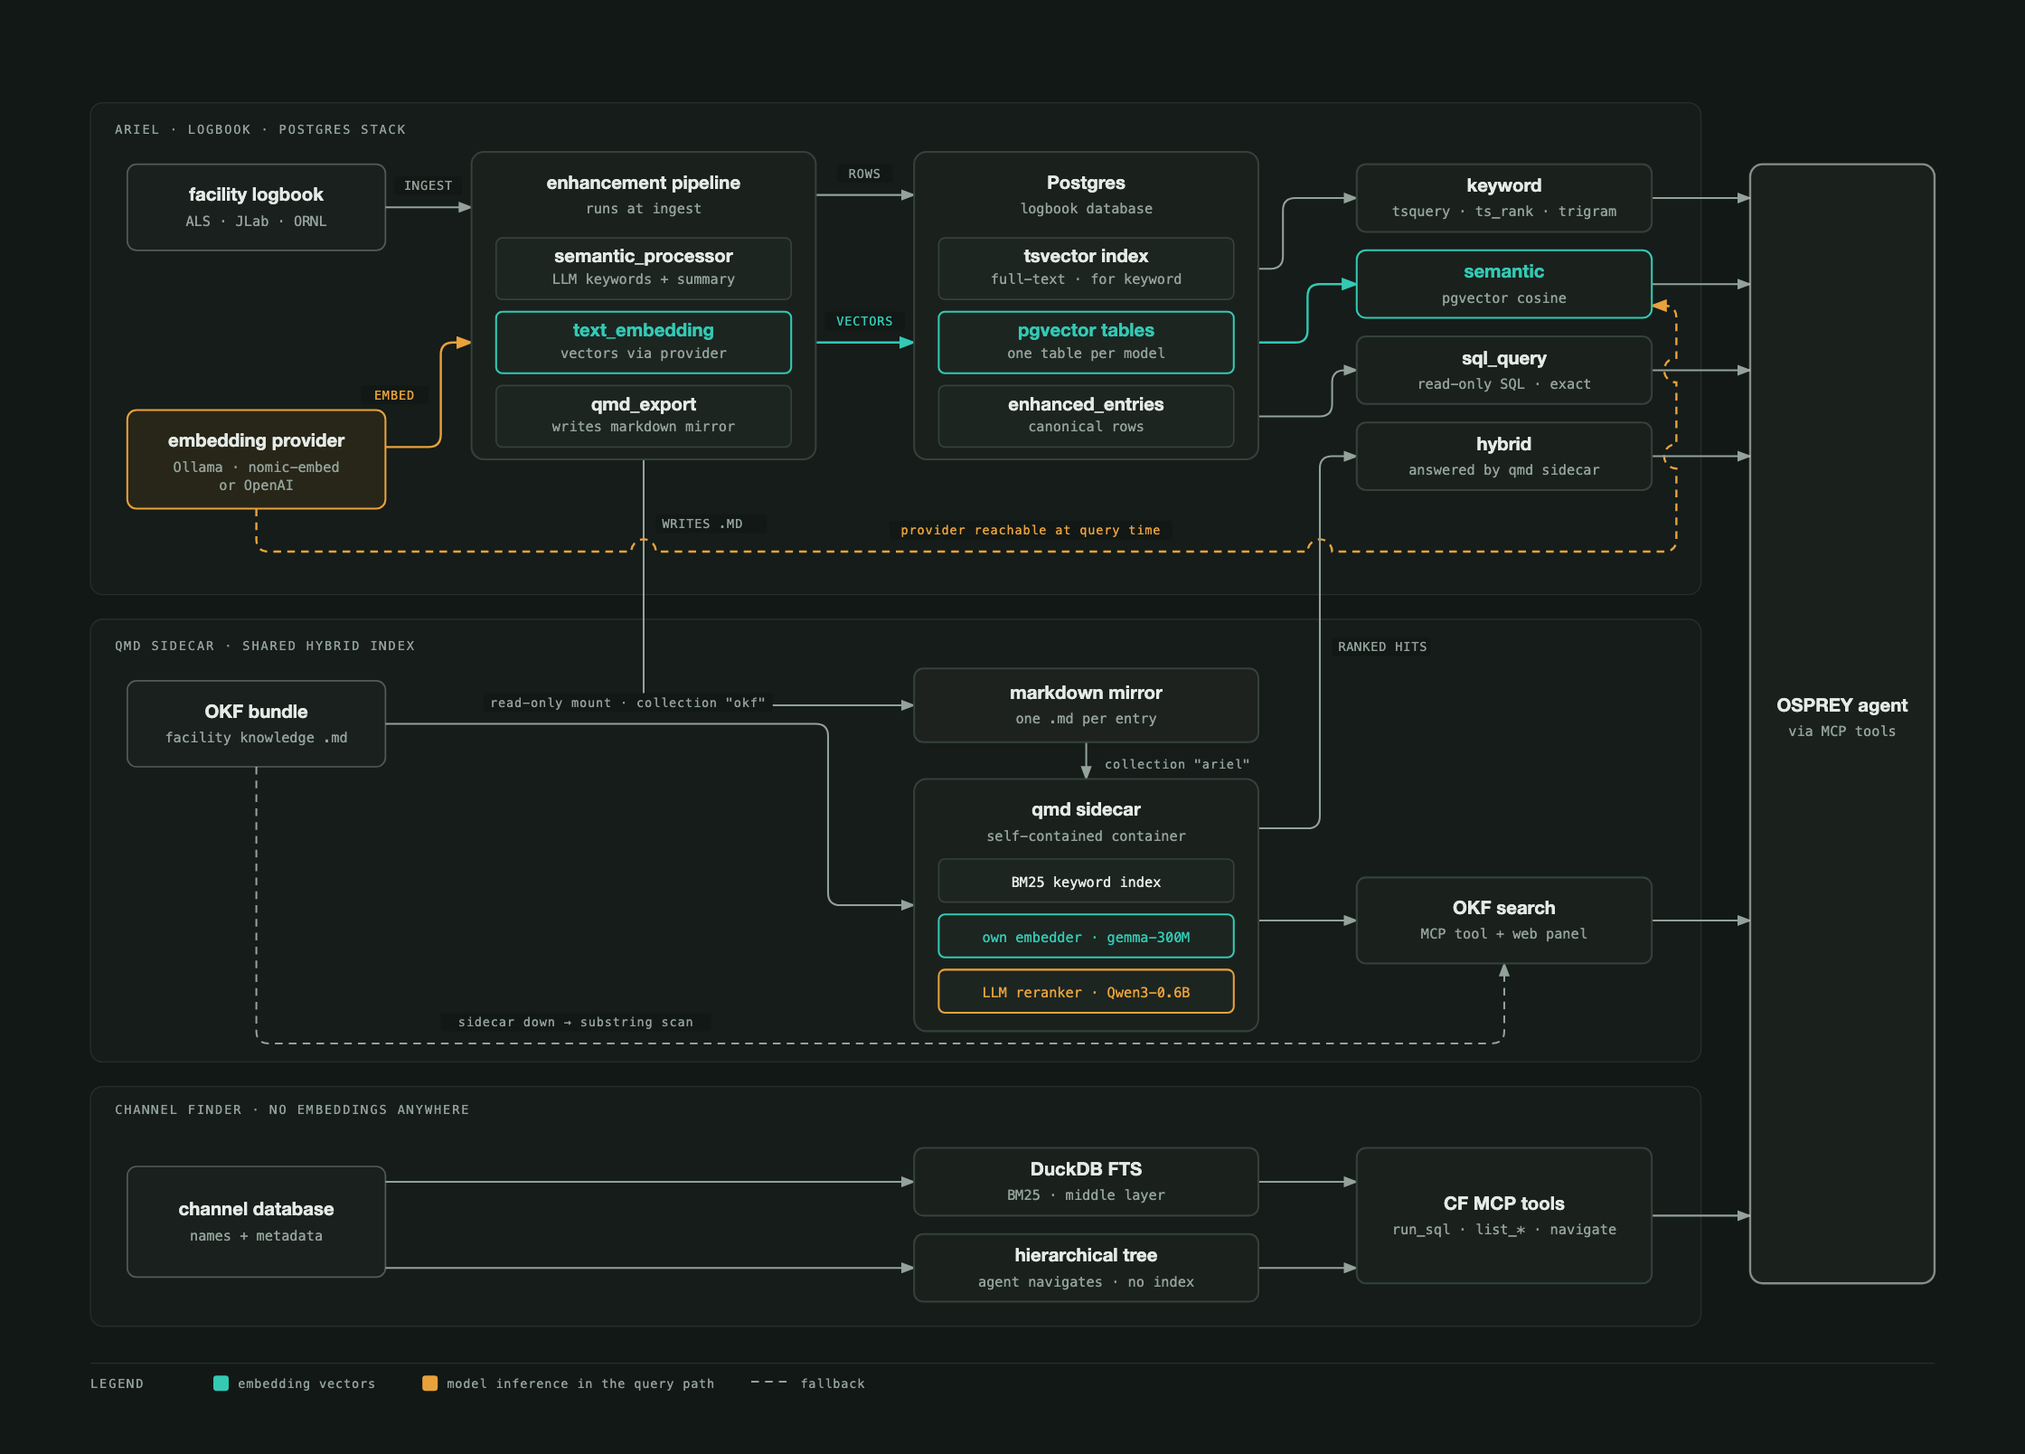
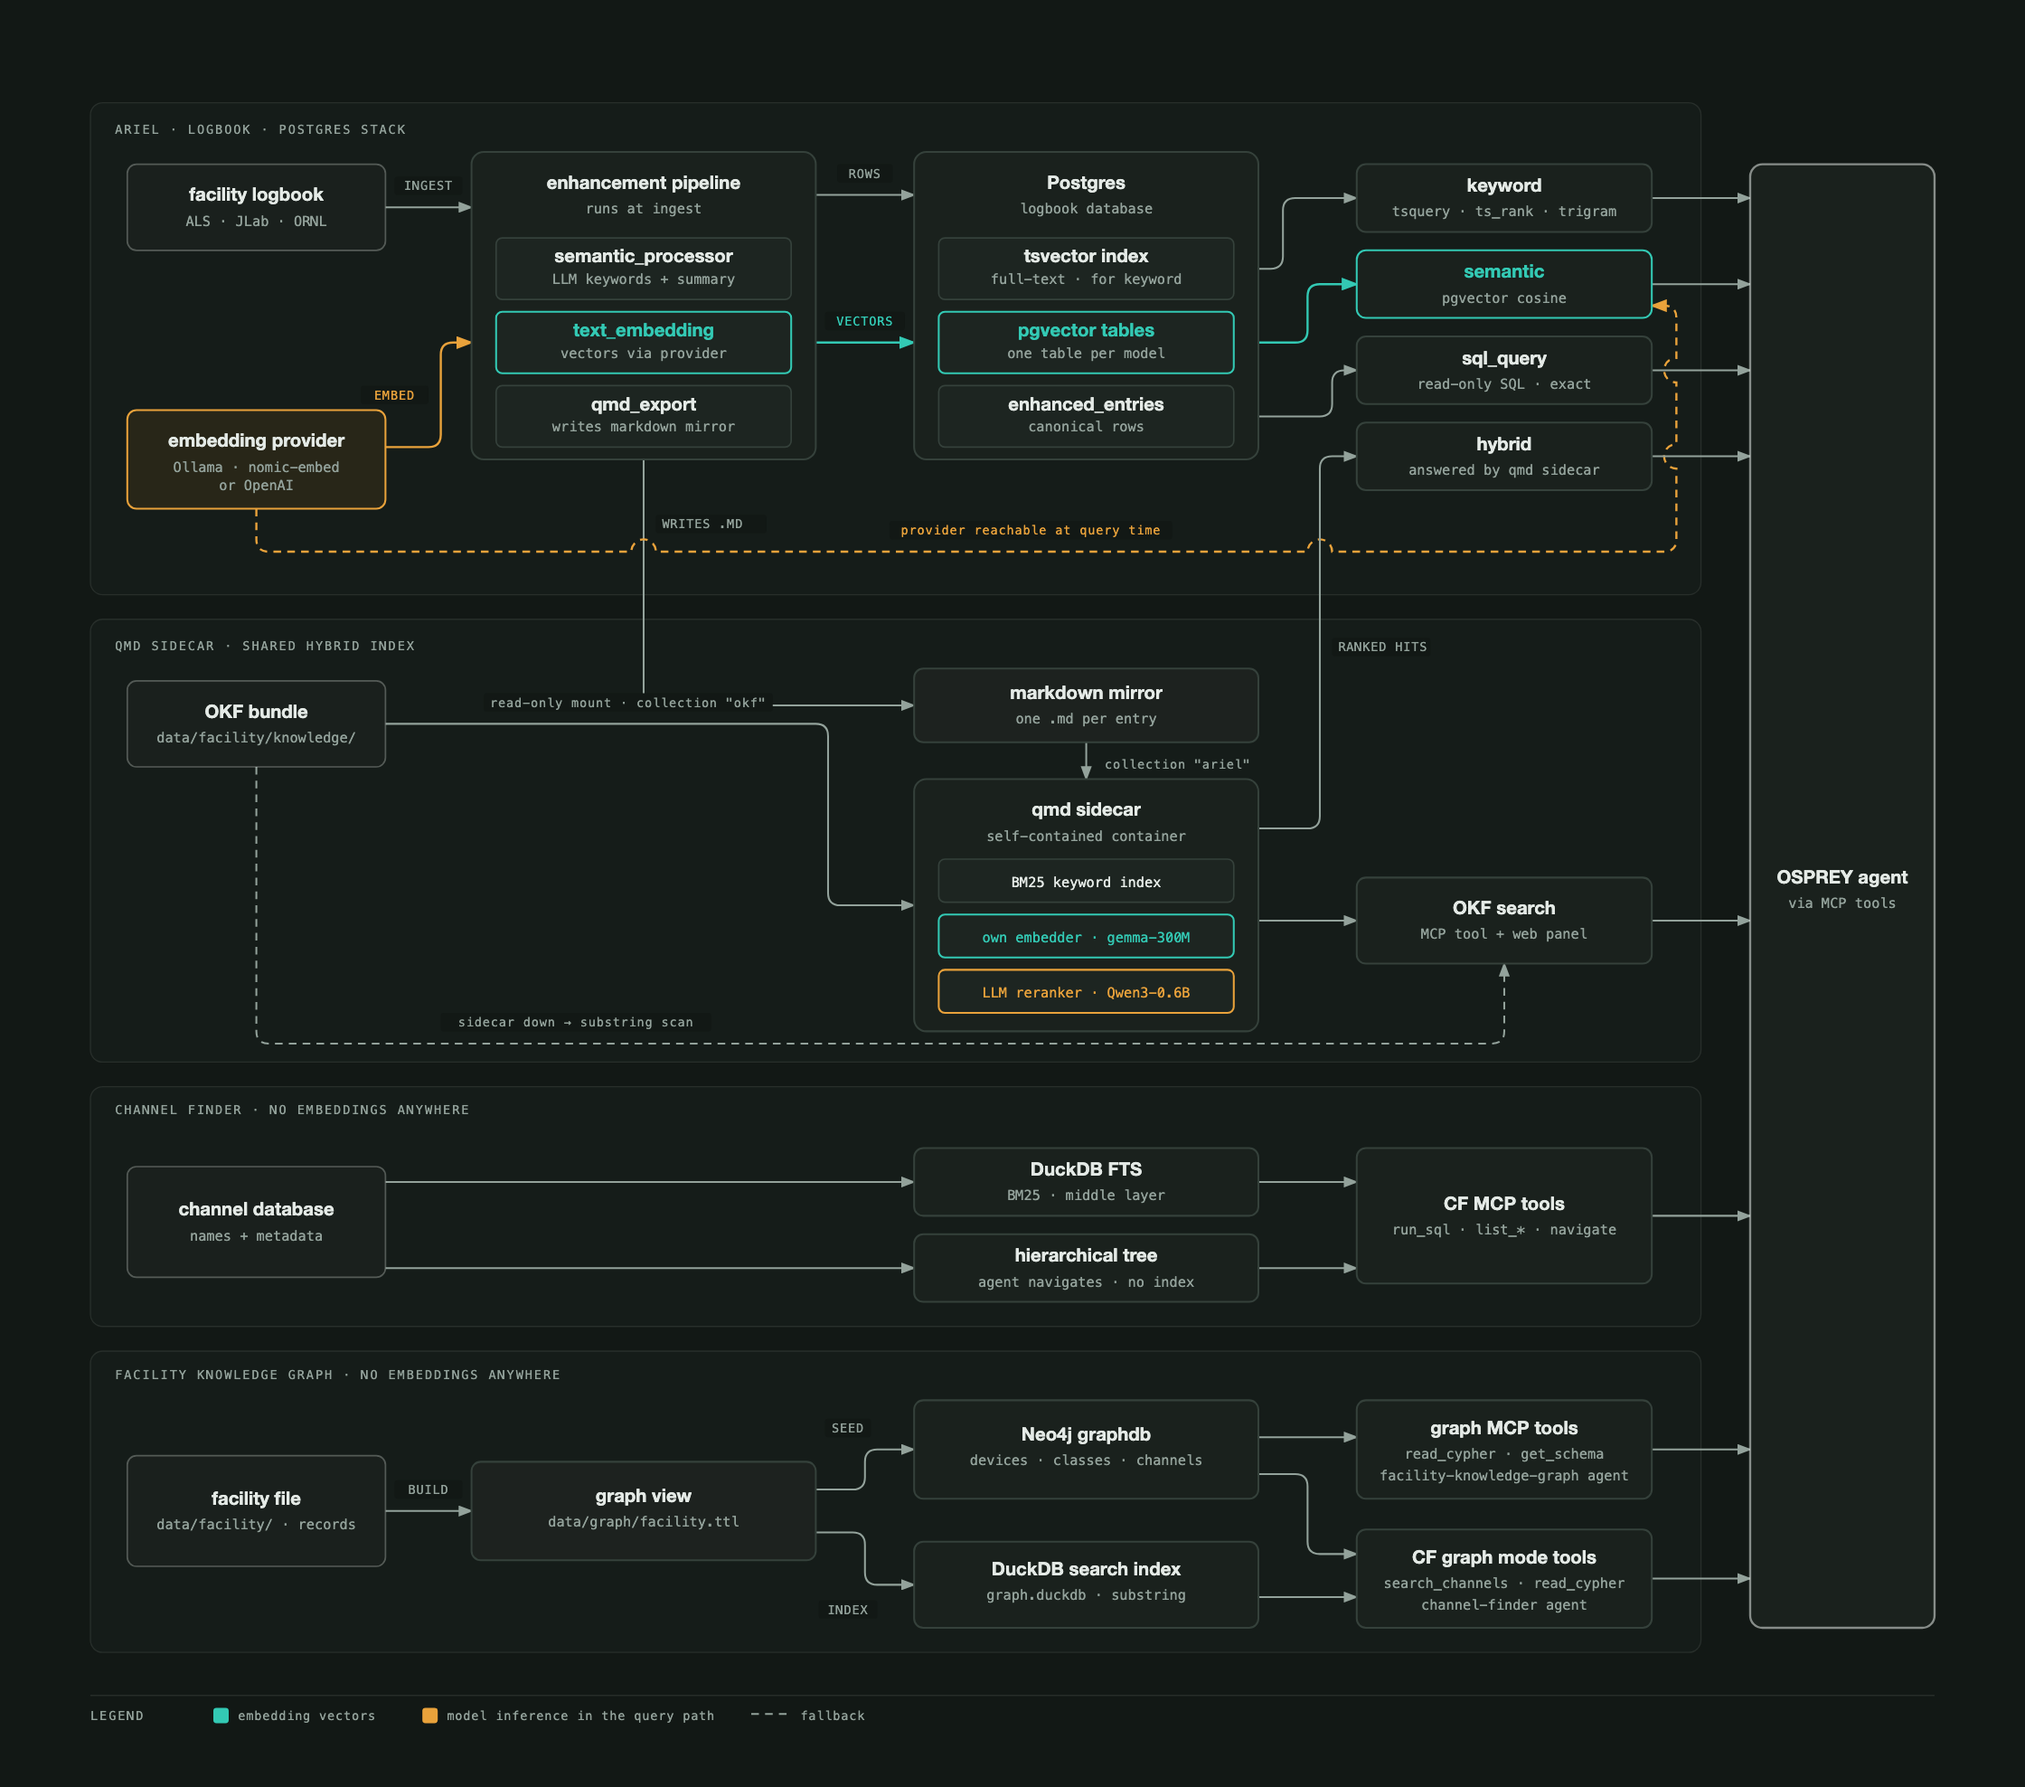
docs(architecture): add the facility graph to retrieval paths
The retrieval map predated the graph servers, so the page described
three stacks and never mentioned the store two subagents query. It also
claimed every stack degrades, which Cypher does not: with the store
down, a query returns an error naming the remedy.

Draw the graph as a fourth lane and say what it answers that the others
cannot. Name the OKF bundle's path, since it is part of the facility
file the graph is derived from.

diff --git a/docs/diagrams/retrieval_map.html b/docs/diagrams/retrieval_map.html
@@ -163,9 +163,9 @@
        Figure 1: the full retrieval & embedding surface
        ════════════════════════════════════════════════════════════════════ -->
   <figure id="fig-retrieval-map">
-    <svg viewBox="0 0 1280 908" role="img" aria-labelledby="retrieval-map-title retrieval-map-desc">
+    <svg viewBox="0 0 1280 1124" role="img" aria-labelledby="retrieval-map-title retrieval-map-desc">
     <title id="retrieval-map-title">Search architecture — every retrieval path</title>
-    <desc id="retrieval-map-desc">The three retrieval stacks — the ARIEL Postgres stack with its enhancement pipeline and query modes, the qmd sidecar sharing one hybrid index between ARIEL and facility knowledge, and the embedding-free channel finder — each feeding MCP tools the OSPREY agent calls.</desc>
+    <desc id="retrieval-map-desc">The four retrieval stacks — the ARIEL Postgres stack with its enhancement pipeline and query modes, the qmd sidecar sharing one hybrid index between ARIEL and facility knowledge, the embedding-free channel finder, and the facility knowledge graph, whose Neo4j store and search index are written from the facility file and read by two subagents — each feeding MCP tools the OSPREY agent calls.</desc>
     <defs>
       <marker id="arr" viewBox="0 0 8 6" refX="7" refY="3" markerWidth="8" markerHeight="6" orient="auto-start-reverse">
         <polygon points="0,0 8,3 0,6" fill="context-stroke"/>
@@ -179,6 +179,8 @@
     <text class="te" x="56" y="404">QMD SIDECAR · SHARED HYBRID INDEX</text>
     <rect class="zone" x="40" y="688" width="1048" height="156" rx="8"/>
     <text class="te" x="56" y="706">CHANNEL FINDER · NO EMBEDDINGS ANYWHERE</text>
+    <rect class="zone" x="40" y="860" width="1048" height="196" rx="8"/>
+    <text class="te" x="56" y="878">FACILITY KNOWLEDGE GRAPH · NO EMBEDDINGS ANYWHERE</text>
 
     <!-- ── lane 1 edges ── -->
     <line class="e" x1="232" y1="116" x2="288" y2="116" marker-end="url(#arr)"/>
@@ -240,6 +242,25 @@
     <line class="e" x1="800" y1="750" x2="864" y2="750" marker-end="url(#arr)"/>
     <line class="e" x1="800" y1="806" x2="864" y2="806" marker-end="url(#arr)"/>
     <line class="e" x1="1056" y1="772" x2="1120" y2="772" marker-end="url(#arr)"/>
+
+    <!-- ── lane 4 edges ── -->
+    <line class="e" x1="232" y1="964" x2="288" y2="964" marker-end="url(#arr)"/>
+    <rect class="mask" x="238" y="944" width="44" height="12" rx="2"/>
+    <text class="ta" x="260" y="953" text-anchor="middle">BUILD</text>
+
+    <path class="e" d="M512,950 H536 Q544,950 544,942 V932 Q544,924 552,924 H576" marker-end="url(#arr)"/>
+    <rect class="mask" x="518" y="904" width="30" height="12" rx="2"/>
+    <text class="ta" x="533" y="913" text-anchor="middle">SEED</text>
+
+    <path class="e" d="M512,978 H536 Q544,978 544,986 V1004 Q544,1012 552,1012 H576" marker-end="url(#arr)"/>
+    <rect class="mask" x="514" y="1022" width="38" height="12" rx="2"/>
+    <text class="ta" x="533" y="1031" text-anchor="middle">INDEX</text>
+
+    <line class="e" x1="800" y1="916" x2="864" y2="916" marker-end="url(#arr)"/>
+    <path class="e" d="M800,940 H824 Q832,940 832,948 V984 Q832,992 840,992 H864" marker-end="url(#arr)"/>
+    <line class="e" x1="800" y1="1020" x2="864" y2="1020" marker-end="url(#arr)"/>
+    <line class="e" x1="1056" y1="924" x2="1120" y2="924" marker-end="url(#arr)"/>
+    <line class="e" x1="1056" y1="1008" x2="1120" y2="1008" marker-end="url(#arr)"/>
 
     <!-- ── lane 1 nodes ── -->
     <rect class="mask" x="64" y="88" width="168" height="56" rx="6"/>
@@ -307,7 +328,7 @@
     <rect class="mask" x="64" y="424" width="168" height="56" rx="6"/>
     <rect class="nb-ext" x="64" y="424" width="168" height="56" rx="6"/>
     <text class="tn" x="148" y="448" text-anchor="middle">OKF bundle</text>
-    <text class="ts" x="148" y="464" text-anchor="middle">facility knowledge .md</text>
+    <text class="ts" x="148" y="464" text-anchor="middle">data/facility/knowledge/</text>
 
     <rect class="mask" x="576" y="488" width="224" height="164" rx="8"/>
     <rect class="nb" x="576" y="488" width="224" height="164" rx="8"/>
@@ -346,27 +367,61 @@
     <text class="tn" x="960" y="768" text-anchor="middle">CF MCP tools</text>
     <text class="ts" x="960" y="784" text-anchor="middle">run_sql · list_* · navigate</text>
 
+    <!-- ── lane 4 nodes ── -->
+    <rect class="mask" x="64" y="928" width="168" height="72" rx="6"/>
+    <rect class="nb-ext" x="64" y="928" width="168" height="72" rx="6"/>
+    <text class="tn" x="148" y="960" text-anchor="middle">facility file</text>
+    <text class="ts" x="148" y="976" text-anchor="middle">data/facility/ · records</text>
+
+    <rect class="mask" x="288" y="932" width="224" height="64" rx="6"/>
+    <rect class="nb-st" x="288" y="932" width="224" height="64" rx="6"/>
+    <text class="tn" x="400" y="958" text-anchor="middle">graph view</text>
+    <text class="ts" x="400" y="974" text-anchor="middle">data/graph/facility.ttl</text>
+
+    <rect class="mask" x="576" y="892" width="224" height="64" rx="6"/>
+    <rect class="nb" x="576" y="892" width="224" height="64" rx="6"/>
+    <text class="tn" x="688" y="918" text-anchor="middle">Neo4j graphdb</text>
+    <text class="ts" x="688" y="934" text-anchor="middle">devices · classes · channels</text>
+
+    <rect class="mask" x="576" y="984" width="224" height="56" rx="6"/>
+    <rect class="nb" x="576" y="984" width="224" height="56" rx="6"/>
+    <text class="tn" x="688" y="1006" text-anchor="middle">DuckDB search index</text>
+    <text class="ts" x="688" y="1022" text-anchor="middle">graph.duckdb · substring</text>
+
+    <rect class="mask" x="864" y="892" width="192" height="64" rx="6"/>
+    <rect class="nb" x="864" y="892" width="192" height="64" rx="6"/>
+    <text class="tn" x="960" y="914" text-anchor="middle">graph MCP tools</text>
+    <text class="ts" x="960" y="930" text-anchor="middle">read_cypher · get_schema</text>
+    <text class="ts" x="960" y="944" text-anchor="middle">facility-knowledge-graph agent</text>
+
+    <rect class="mask" x="864" y="976" width="192" height="64" rx="6"/>
+    <rect class="nb" x="864" y="976" width="192" height="64" rx="6"/>
+    <text class="tn" x="960" y="998" text-anchor="middle">CF graph mode tools</text>
+    <text class="ts" x="960" y="1014" text-anchor="middle">search_channels · read_cypher</text>
+    <text class="ts" x="960" y="1028" text-anchor="middle">channel-finder agent</text>
+
     <!-- agent rail -->
-    <rect class="mask" x="1120" y="88" width="120" height="728" rx="8"/>
-    <rect class="nb nb-strong" x="1120" y="88" width="120" height="728" rx="8"/>
-    <text class="tn" x="1180" y="444" text-anchor="middle">OSPREY agent</text>
-    <text class="ts" x="1180" y="460" text-anchor="middle">via MCP tools</text>
+    <rect class="mask" x="1120" y="88" width="120" height="952" rx="8"/>
+    <rect class="nb nb-strong" x="1120" y="88" width="120" height="952" rx="8"/>
+    <text class="tn" x="1180" y="556" text-anchor="middle">OSPREY agent</text>
+    <text class="ts" x="1180" y="572" text-anchor="middle">via MCP tools</text>
 
     <!-- legend -->
-    <line class="lg-rule" x1="40" y1="868" x2="1240" y2="868"/>
-    <text class="te" x="40" y="884">LEGEND</text>
-    <rect class="lg-swatch" x="120" y="876" width="10" height="10" fill="var(--accent)"/>
-    <text class="ta" x="136" y="884">embedding vectors</text>
-    <rect class="lg-swatch" x="256" y="876" width="10" height="10" fill="var(--warn)"/>
-    <text class="ta" x="272" y="884">model inference in the query path</text>
-    <line class="e e-dash" x1="470" y1="880" x2="494" y2="880"/>
-    <text class="ta" x="502" y="884">fallback</text>
+    <line class="lg-rule" x1="40" y1="1084" x2="1240" y2="1084"/>
+    <text class="te" x="40" y="1100">LEGEND</text>
+    <rect class="lg-swatch" x="120" y="1092" width="10" height="10" fill="var(--accent)"/>
+    <text class="ta" x="136" y="1100">embedding vectors</text>
+    <rect class="lg-swatch" x="256" y="1092" width="10" height="10" fill="var(--warn)"/>
+    <text class="ta" x="272" y="1100">model inference in the query path</text>
+    <line class="e e-dash" x1="470" y1="1096" x2="494" y2="1096"/>
+    <text class="ta" x="502" y="1100">fallback</text>
   </svg>
   </figure>
   <p class="caption">
     Figure 1 — every retrieval path, left to right: sources → ingest-time
     processing → indexes → query paths → the agent. The hybrid module and OKF
-    search share the one qmd sidecar — the only cross-stack connection.
+    search share the one qmd sidecar — the only cross-stack connection at query
+    time.
   </p>
 
   <!-- ════════════════════════════════════════════════════════════════════

diff --git a/docs/source/architecture/retrieval-paths.rst b/docs/source/architecture/retrieval-paths.rst
@@ -5,14 +5,14 @@ Retrieval Paths
 
 The :doc:`safety chain <safety-chain>` is how OSPREY *writes*. Reading is a
 different shape: the agent
-answers questions from three independent retrieval stacks, each with its own
+answers questions from four retrieval stacks, each with its own
 index and its own answer to whether embeddings are involved at all.
 
 .. figure:: /_static/screenshots/retrieval_map_light.png
    :class: only-light
    :figclass: only-light
    :width: 100%
-   :alt: The three retrieval stacks — the ARIEL Postgres stack, the qmd sidecar, and the embedding-free channel finder — each feeding MCP tools the OSPREY agent calls.
+   :alt: The four retrieval stacks — the ARIEL Postgres stack, the qmd sidecar, the embedding-free channel finder and the facility knowledge graph — each feeding MCP tools the OSPREY agent calls.
 
    Every retrieval path, left to right: sources, ingest-time processing,
    indexes, query paths, and the agent.
@@ -21,26 +21,38 @@ index and its own answer to whether embeddings are involved at all.
    :class: only-dark
    :figclass: only-dark
    :width: 100%
-   :alt: The three retrieval stacks — the ARIEL Postgres stack, the qmd sidecar, and the embedding-free channel finder — each feeding MCP tools the OSPREY agent calls.
+   :alt: The four retrieval stacks — the ARIEL Postgres stack, the qmd sidecar, the embedding-free channel finder and the facility knowledge graph — each feeding MCP tools the OSPREY agent calls.
 
    Every retrieval path, left to right: sources, ingest-time processing,
    indexes, query paths, and the agent.
 
-Three things are worth reading off the map:
+Four things are worth reading off the map:
 
 **Only one stack needs an embedding provider on the host.** :doc:`ARIEL's
 </how-to/ariel/search-modes>` ``semantic`` mode embeds both the corpus at ingest
 and the *query* at query time, so Ollama (or OpenAI) has to be reachable when an
 operator searches, not just when entries are ingested. The qmd sidecar carries
-its own embedder inside the image, and the channel finder uses no embeddings
-anywhere — it ranks with BM25 and lets the agent walk a hierarchy.
+its own embedder inside the image. The channel finder and the facility graph use
+no embeddings anywhere: the finder ranks with BM25 or lets the agent walk a
+hierarchy, and the graph answers Cypher, with a substring index for phrases.
 
-**The qmd sidecar is the one cross-stack component.** It answers ARIEL's
-``hybrid`` mode and backs :doc:`facility-knowledge </how-to/facility-knowledge/index>`
+**The qmd sidecar is the one cross-stack component at query time.** It answers
+ARIEL's ``hybrid`` mode and backs :doc:`facility-knowledge </how-to/facility-knowledge/index>`
 search, from one sidecar per corpus — one for the markdown mirror ARIEL exports,
 one for the OKF bundle, one for each corpus a deployment declares. Its internals,
 and the ``rerank`` tradeoff, are covered under :ref:`qmd-search-sidecar`.
 
-**Every stack degrades rather than fails.** The dashed edges are fallbacks: OKF
-search drops to a substring scan when the sidecar is absent, and ARIEL's
-``semantic`` mode is the one path that hard-depends on a reachable provider.
+**The facility graph answers questions about relations.** The other stacks find
+a text or an address. The :doc:`graph </how-to/facility-knowledge/use-facility-graph>`
+relates devices, classes, sections and addresses to each other, so it can count
+every magnet or list a section in beam order. Two subagents read it: the
+facility-knowledge-graph agent for structure, and the channel finder in graph
+mode to turn a phrase into an address. The channel database and the graph are
+both derived from the facility file's records, and the OKF bundle is its prose,
+so all three describe the same machine.
+
+**Stacks degrade differently.** The dashed edges are fallbacks: OKF search drops
+to a substring scan when the sidecar is absent, and ARIEL's ``semantic`` mode
+hard-depends on a reachable provider. The graph has no fallback for Cypher: with
+the store down, a query returns an error naming the remedy, while graph mode's
+``search_channels`` still answers from its index.
